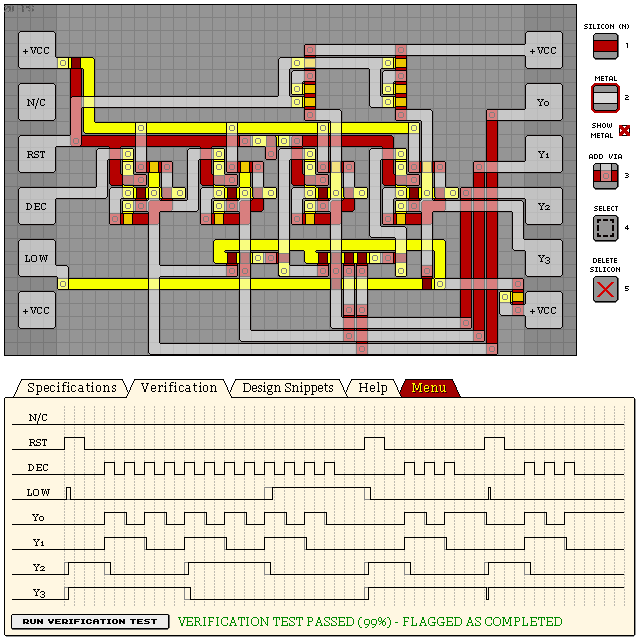
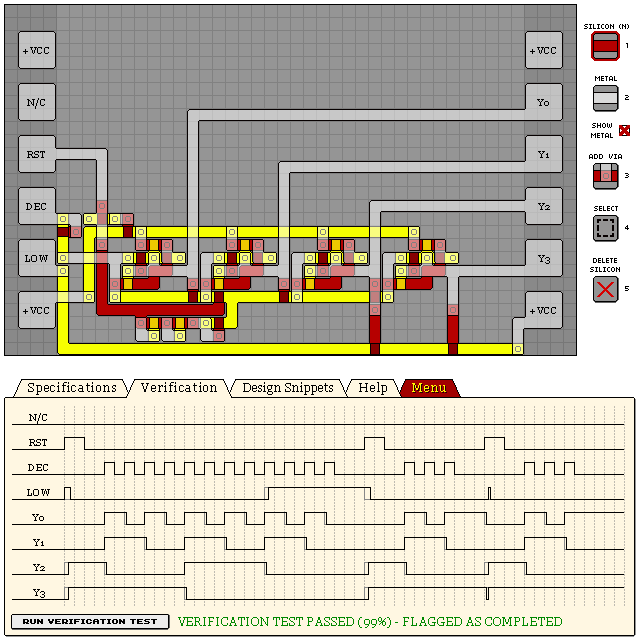
X902 simpler design, more accurate (still 99%)

Changed region(s): [[0.0625, 0.0625, 0.8438, 0.5625], [0.9062, 0.125, 0.9688, 0.1875], [0.9062, 0.0312, 0.9688, 0.0938]]

diff --git a/levels/18 X902 GRENADE LAUNCHER AMMO COUNTER.md b/levels/18 X902 GRENADE LAUNCHER AMMO COUNTER.md
@@ -1,30 +1,25 @@
 # X902 - GRENADE LAUNCHER AMMO COUNTER
 
 - Verification: Passed (99%)
-- Design Score: 653
+- Design Score: 402
 
 ```
[20 lines of base64/hex data omitted]
-A85Vf/mKlI5/Va7Nnw==
[15 lines of base64/hex data omitted]
+AwXiyo8=
 ```
 
 ![18 X902 GRENADE LAUNCHER AMMO COUNTER](./assets/18.png)
